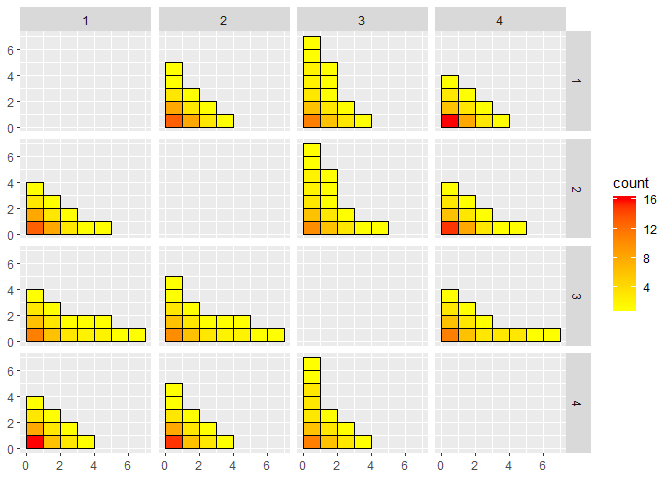
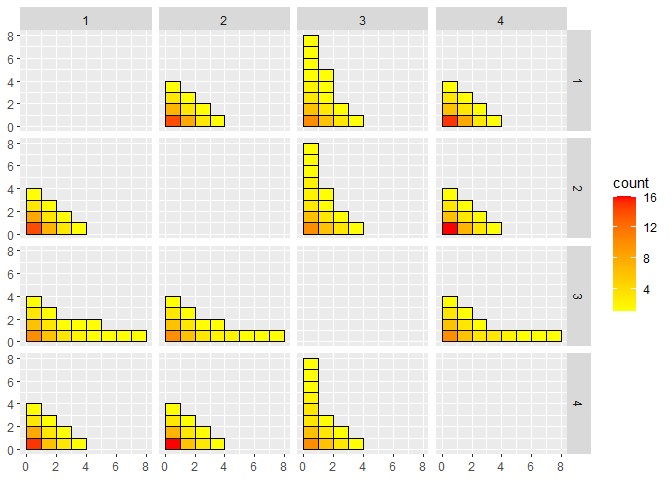
Preparing for new release to stay on CRAN. Added GH actions.

diff --git a/src/RcppExports.cpp b/src/RcppExports.cpp
@@ -6,6 +6,11 @@
 
 using namespace Rcpp;
 
+#ifdef RCPP_USE_GLOBAL_ROSTREAM
+Rcpp::Rostream<true>&  Rcpp::Rcout = Rcpp::Rcpp_cout_get();
+Rcpp::Rostream<false>& Rcpp::Rcerr = Rcpp::Rcpp_cerr_get();
+#endif
+
 // rcpp_kronDBS
 void rcpp_kronDBS(NumericVector A, NumericVector B, NumericVector p);
 RcppExport SEXP _CGGP_rcpp_kronDBS(SEXP ASEXP, SEXP BSEXP, SEXP pSEXP) {

diff --git a/README.md b/README.md
@@ -3,10 +3,16 @@
 
 # CGGP
 
+<!-- badges: start -->
+
+[![CRAN_Status_Badge](https://www.r-pkg.org/badges/version/CGGP)](https://cran.r-project.org/package=CGGP)
 [![Travis-CI Build
 Status](https://travis-ci.org/CollinErickson/CGGP.svg?branch=master)](https://travis-ci.org/CollinErickson/CGGP)
-[![Coverage
-Status](https://img.shields.io/codecov/c/github/CollinErickson/CGGP/master.svg)](https://codecov.io/github/CollinErickson/CGGP?branch=master)
+[![codecov](https://codecov.io/github/CollinErickson/CGGP/graph/badge.svg?token=FMnP9TEFBk)](https://codecov.io/github/CollinErickson/CGGP)
+[![CRAN RStudio mirror
+downloads](https://cranlogs.r-pkg.org/badges/last-month/CGGP?color=blue)](https://r-pkg.org/pkg/CGGP)
+[![R-CMD-check](https://github.com/CollinErickson/CGGP/actions/workflows/R-CMD-check.yaml/badge.svg)](https://github.com/CollinErickson/CGGP/actions/workflows/R-CMD-check.yaml)
+<!-- badges: end -->
 
 The goal of CGGP is to provide a sequential design of experiment
 algorithm that can efficiently use many points and interpolate exactly.
@@ -33,7 +39,7 @@ print(CG)
 #> CGGP object
 #>    d = 4
 #>    output dimensions = 1
-#>    CorrFunc = CauchySQ
+#>    CorrFunc = PowerExponential
 #>    number of design points             = 193
 #>    number of unevaluated design points = 193
 #>    Available functions:
@@ -60,7 +66,7 @@ CG
 #> CGGP object
 #>    d = 4
 #>    output dimensions = 1
-#>    CorrFunc = CauchySQ
+#>    CorrFunc = PowerExponential
 #>    number of design points             = 193
 #>    number of unevaluated design points = 0
 #>    Available functions:
@@ -77,30 +83,30 @@ you can use `CGGPpred`.
 xp <- matrix(runif(10*CG$d), ncol=CG$d)
 CGGPpred(CG, xp)
 #> $mean
-#>             [,1]
-#>  [1,] -0.5797854
-#>  [2,] -0.3749652
-#>  [3,]  0.1128483
-#>  [4,]  0.9209868
-#>  [5,]  0.9907518
-#>  [6,] -0.2265420
-#>  [7,]  0.1801634
-#>  [8,] -0.3477451
-#>  [9,]  0.7743188
-#> [10,] -0.0355732
+#>              [,1]
+#>  [1,] -0.52367139
+#>  [2,] -0.31521070
+#>  [3,]  0.05781108
+#>  [4,]  0.94199482
+#>  [5,]  0.98578179
+#>  [6,] -0.22661334
+#>  [7,]  0.17936738
+#>  [8,] -0.16986576
+#>  [9,]  0.73173845
+#> [10,] -0.15488181
 #> 
 #> $var
 #>               [,1]
-#>  [1,] 4.354093e-03
-#>  [2,] 1.928985e-02
-#>  [3,] 3.206114e-03
-#>  [4,] 4.775720e-03
-#>  [5,] 1.564388e-04
-#>  [6,] 4.594134e-06
-#>  [7,] 1.772568e-04
-#>  [8,] 4.485993e-03
-#>  [9,] 1.386959e-02
-#> [10,] 1.293479e-02
+#>  [1,] 0.0092572099
+#>  [2,] 0.0221140651
+#>  [3,] 0.0094446082
+#>  [4,] 0.0134280357
+#>  [5,] 0.0012771995
+#>  [6,] 0.0002103327
+#>  [7,] 0.0035323769
+#>  [8,] 0.0149844852
+#>  [9,] 0.0170830979
+#> [10,] 0.0183621344
 ```
 
 To add new design points to the already existing design, use
@@ -135,11 +141,6 @@ column.
 
 ``` r
 CGGPplotblocks(CG)
-#> Registered S3 methods overwritten by 'ggplot2':
-#>   method         from 
-#>   [.quosures     rlang
-#>   c.quosures     rlang
-#>   print.quosures rlang
 ```
 
 ![](tools/README-plotblocks-1.png)<!-- -->
@@ -147,11 +148,11 @@ CGGPplotblocks(CG)
 #### `CGGPplotheat`
 
 `CGGPplotheat` is similar to `CGGPplotblocks` and can be easier to read
-since it is only a single plot. The \((i,j)\) entry shows the maximum
-value for which a block was selected with \(X_i\) and \(X_j\) at least
-that large. The diagonal entries, \((i, i)\), show the maximum depth for
-\(X_i\). A diagonal entry must be at least as large as any entry in its
-column or row. This plot is also symmetric.
+since it is only a single plot. The $(i,j)$ entry shows the maximum
+value for which a block was selected with $X_i$ and $X_j$ at least that
+large. The diagonal entries, $(i, i)$, show the maximum depth for $X_i$.
+A diagonal entry must be at least as large as any entry in its column or
+row. This plot is also symmetric.
 
 ``` r
 CGGPplotheat(CG)
@@ -168,7 +169,7 @@ explored more. These should be the more active dimensions.
 ``` r
 CGGPplothist(CG)
 #> Warning: Transformation introduced infinite values in continuous y-axis
-#> Warning: Removed 8 rows containing missing values (geom_bar).
+#> Warning: Removed 12 rows containing missing values (`geom_bar()`).
 ```
 
 ![](tools/README-hist-1.png)<!-- -->

diff --git a/cran-comments.md b/cran-comments.md
@@ -1,12 +1,12 @@
-I received an email on 4/16/20 from Kurt Hornik saying that I had to add 
-rmarkdown to Suggests in the DESCRIPTION because of a change to knitr.
-I have made this change and a few other small changes to the package.
+I received an email on 8/19/23 from Kurt Hornik saying that I had to 
+update the documentation for my package as specified in this bug:
+https://github.com/r-lib/roxygen2/issues/1491.
 
 I ran CMD CHECK on all the following and had no issues.
 
 ## Test environments
 * local Ubuntu 20.04.2 LTS install, R 4.0.3
-* local Windows 10, R 4.0.5
+* local Windows 10, R 4.3.2
 * ubuntu 16.04.6 LTS (on travis-ci), R 4.0.2
 * win-builder (devel and release)
 * R-hub (Windows, Ubuntu Linux, Fedora Linux, Debian Linux)
@@ -16,6 +16,8 @@ I ran CMD CHECK on all the following and had no issues.
 On personal Ubuntu and Windows there are no ERRORs, WARNINGs, or NOTEs.
 
 On R-hub all 4 have "Status: OK".
+Debian Linux (1/14/24 OK)
+Ubuntu Linux and Fedora Linux have a NOTE for a slow example.
 
 On winbuilder (check_win_release and check_win_devel) it has "Status: OK".
 

diff --git a/NEWS.md b/NEWS.md
@@ -1,4 +1,8 @@
-# CGGP 1.0.3.9000
+# CGGP 1.0.4
+
+* Documentation fix (https://github.com/r-lib/roxygen2/issues/1491)
+
+* Removed C++11 setting in Makevars to remove NOTE
 
 # CGGP 1.0.3
 
